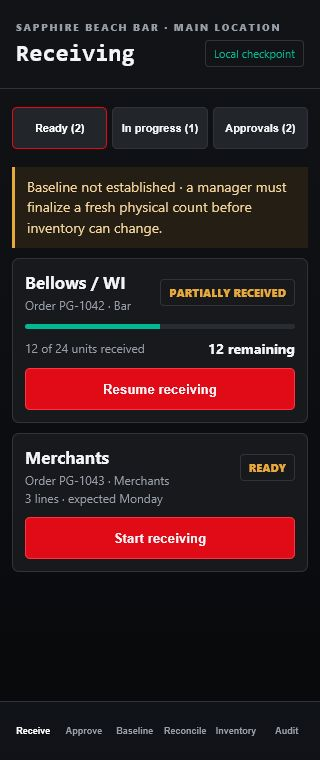
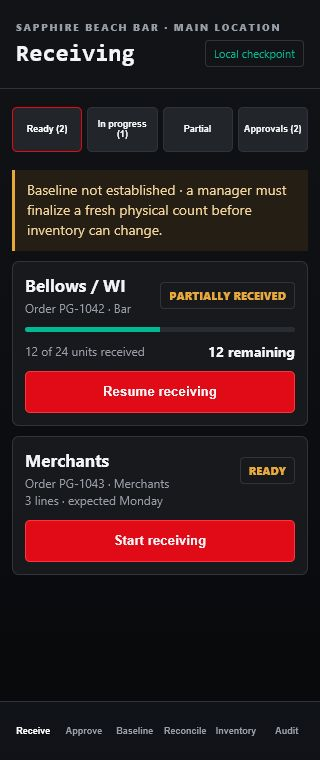
Complete Phase 3 integrity verification

diff --git a/phase3.html b/phase3.html
@@ -5,7 +5,8 @@
 <meta name="viewport" content="width=device-width,initial-scale=1,viewport-fit=cover">
 <title>PourGrid · Receiving</title>
 <style>
-:root{--bg:#08090b;--panel:#17191d;--line:#30343a;--text:#f3f4f6;--muted:#989ea7;--red:#e10a17;--green:#00b893;--amber:#e8a93c}*{box-sizing:border-box}html{background:var(--bg)}body{margin:0;background:var(--bg);color:var(--text);font:14px -apple-system,BlinkMacSystemFont,"Segoe UI",sans-serif}.app{max-width:430px;min-height:100vh;margin:auto;padding:0 16px 104px;background:linear-gradient(#111317,#08090b)}header{position:sticky;top:0;z-index:2;margin:0 -16px 18px;padding:calc(20px + env(safe-area-inset-top)) 16px 16px;background:#111317f2;border-bottom:1px solid var(--line);backdrop-filter:blur(12px)}.eyebrow{color:var(--muted);font-size:10px;font-weight:800;letter-spacing:1.8px;text-transform:uppercase}h1{font:800 24px ui-monospace,monospace;margin:5px 0}.pill,.badge{display:inline-block;padding:5px 8px;border:1px solid var(--line);border-radius:4px;color:var(--green);font-size:11px}.badge{color:var(--amber);font-weight:800;text-transform:uppercase}.tabs{display:flex;gap:5px;overflow:hidden;margin-bottom:16px;padding-bottom:2px}.tabs button{flex:1;min-width:0;white-space:nowrap;min-height:42px;padding-left:5px;padding-right:5px;font-size:11px}.card{background:var(--panel);border:1px solid var(--line);border-radius:7px;padding:14px;margin:10px 0;overflow:hidden}.row{display:flex;align-items:center;justify-content:space-between;gap:12px}.row>*{min-width:0}.muted{color:var(--muted);font-size:12px;line-height:1.45}.metric{font:800 20px ui-monospace,monospace;white-space:nowrap}.bar{height:5px;background:#292d32;margin:10px 0;border-radius:3px;overflow:hidden}.bar i{display:block;height:100%;background:var(--green);width:50%}button{border:1px solid var(--line);border-radius:5px;background:#22252a;color:var(--text);padding:11px 13px;font-weight:750;min-height:42px}button.primary{background:var(--red);border-color:#ff3440;width:100%;margin-top:10px}button.secondary{width:100%;margin-top:8px}button.active{border-color:var(--red);color:#fff}.line{padding:12px 0;border-top:1px solid var(--line)}input{width:72px;background:#0d0f12;border:1px solid var(--line);color:#fff;padding:10px;border-radius:4px;font-size:16px}.notice{border-left:3px solid var(--amber);padding:10px 12px;background:#241e14;color:#f3d49c;line-height:1.45}.success{border-left-color:var(--green);background:#10231e;color:#a9eadb}.nav{position:fixed;bottom:0;left:50%;transform:translateX(-50%);width:min(430px,100%);display:flex;background:#111317f2;border-top:1px solid var(--line);padding:8px 8px calc(8px + env(safe-area-inset-bottom));z-index:3}.nav button{flex:1;border:0;background:none;color:var(--muted);padding:7px 2px;font-size:10px;min-width:0}.nav button.active{color:#fff}h2{font-size:17px;margin:0 0 4px}.hidden{display:none}.audit{font:11px ui-monospace,monospace;color:#c4c9d0;overflow-wrap:anywhere}.choice{display:flex;gap:8px}.choice button{flex:1}.section-title{margin:4px 0 12px}.check{color:var(--green);font-weight:800}.danger{color:#ff8087}@media(max-width:340px){.app{padding-left:12px;padding-right:12px}header{margin-left:-12px;margin-right:-12px}.card{padding:12px}.nav button{font-size:9px}.row{gap:8px}}
+:root{--bg:#08090b;--panel:#17191d;--line:#30343a;--text:#f3f4f6;--muted:#989ea7;--red:#e10a17;--green:#00b893;--amber:#e8a93c}*{box-sizing:border-box}html{background:var(--bg)}body{margin:0;background:var(--bg);color:var(--text);font:14px -apple-system,BlinkMacSystemFont,"Segoe UI",sans-serif}.app{max-width:430px;min-height:100vh;margin:auto;padding:0 16px 104px;background:linear-gradient(#111317,#08090b)}header{position:sticky;top:0;z-index:2;margin:0 -16px 18px;padding:calc(20px + env(safe-area-inset-top)) 16px 16px;background:#111317f2;border-bottom:1px solid var(--line);backdrop-filter:blur(12px)}.eyebrow{color:var(--muted);font-size:10px;font-weight:800;letter-spacing:1.8px;text-transform:uppercase}h1{font:800 24px ui-monospace,monospace;margin:5px 0}.pill,.badge{display:inline-block;padding:5px 8px;border:1px solid var(--line);border-radius:4px;color:var(--green);font-size:11px}.badge{color:var(--amber);font-weight:800;text-transform:uppercase}.tabs{display:flex;gap:5px;overflow:hidden;margin-bottom:16px;padding-bottom:2px}.tabs button{flex:1;min-width:0;white-space:normal;line-height:1.15;min-height:42px;padding-left:4px;padding-right:4px;font-size:10px}.card{background:var(--panel);border:1px solid var(--line);border-radius:7px;padding:14px;margin:10px 0;overflow:hidden}.row{display:flex;align-items:center;justify-content:space-between;gap:12px}.row>*{min-width:0}.muted{color:var(--muted);font-size:12px;line-height:1.45}.metric{font:800 20px ui-monospace,monospace;white-space:nowrap}.bar{height:5px;background:#292d32;margin:10px 0;border-radius:3px;overflow:hidden}.bar i{display:block;height:100%;background:var(--green);width:50%}button{border:1px solid var(--line);border-radius:5px;background:#22252a;color:var(--text);padding:11px 13px;font-weight:750;min-height:42px}button.primary{background:var(--red);border-color:#ff3440;width:100%;margin-top:10px}button.secondary{width:100%;margin-top:8px}button.active{border-color:var(--red);color:#fff}.line{padding:12px 0;border-top:1px solid var(--line)}input{width:72px;background:#0d0f12;border:1px solid var(--line);color:#fff;padding:10px;border-radius:4px;font-size:16px}.notice{border-left:3px solid var(--amber);padding:10px 12px;background:#241e14;color:#f3d49c;line-height:1.45}.success{border-left-color:var(--green);background:#10231e;color:#a9eadb}.nav{position:fixed;bottom:0;left:50%;transform:translateX(-50%);width:min(430px,100%);display:flex;background:#111317f2;border-top:1px solid var(--line);padding:8px 8px calc(8px + env(safe-area-inset-bottom));z-index:3}.nav button{flex:1;border:0;background:none;color:var(--muted);padding:7px 2px;font-size:10px;min-width:0}.nav button.active{color:#fff}h2{font-size:17px;margin:0 0 4px}.hidden{display:none}.audit{font:11px ui-monospace,monospace;color:#c4c9d0;overflow-wrap:anywhere}.choice{display:flex;gap:8px}.choice button{flex:1}.section-title{margin:4px 0 12px}.check{color:var(--green);font-weight:800}.danger{color:#ff8087}@media(max-width:340px){.app{padding-left:12px;padding-right:12px}header{margin-left:-12px;margin-right:-12px}.card{padding:12px}.nav button{font-size:9px}.row{gap:8px}}
+@media(max-width:340px){.tabs button{font-size:9px}}
 </style>
 </head>
 <body>
@@ -13,10 +14,20 @@
   <header><div class="eyebrow">Sapphire Beach Bar · Main location</div><div class="row"><h1 id="page-title">Receiving</h1><span class="pill">Local checkpoint</span></div></header>
 
   <section id="orders" data-title="Receiving">
-    <div class="tabs"><button class="active" onclick="openView('orders')">Ready (2)</button><button onclick="openView('receive')">In progress (1)</button><button onclick="openView('approvals')">Approvals (2)</button></div>
+    <div class="tabs"><button class="active" onclick="openView('orders')">Ready (2)</button><button onclick="openView('receive')">In progress (1)</button><button onclick="openView('partial')">Partial</button><button onclick="openView('approvals')">Approvals (2)</button></div>
     <div class="notice">Baseline not established · a manager must finalize a fresh physical count before inventory can change.</div>
     <article class="card"><div class="row"><div><h2>Bellows / WI</h2><div class="muted">Order PG-1042 · Bar</div></div><span class="badge">Partially received</span></div><div class="bar"><i></i></div><div class="row"><span class="muted">12 of 24 units received</span><strong>12 remaining</strong></div><button class="primary" onclick="openView('receive')">Resume receiving</button></article>
     <article class="card"><div class="row"><div><h2>Merchants</h2><div class="muted">Order PG-1043 · Merchants</div></div><span class="badge">Ready</span></div><div class="muted">3 lines · expected Monday</div><button class="primary" onclick="openView('receive')">Start receiving</button></article>
+  </section>
+
+  <section id="partial" data-title="Partial receipt" class="hidden">
+    <button onclick="openView('orders')">← Ready orders</button>
+    <article class="card"><div class="row"><div><h2>Bellows / WI · PG-1042</h2><div class="muted">First receipt finalized safely</div></div><span class="badge">Partial</span></div><div class="bar"><i></i></div><div class="line row"><span>Expected</span><strong>24 units</strong></div><div class="line row"><span>Received</span><strong>12 units</strong></div><div class="line row"><span>Remaining</span><strong>12 units</strong></div><div class="notice success">Inventory increased by exactly 12 units. Resume receiving for the remaining quantity.</div><button class="primary" onclick="openView('receive')">Resume receiving</button></article>
+  </section>
+
+  <section id="impact" data-title="Inventory impact" class="hidden">
+    <button onclick="openView('receive')">← Active receipt</button>
+    <article class="card"><div class="eyebrow">Finalization preview</div><h2>Inventory impact</h2><div class="line row"><div><strong>Stoli Vodka</strong><div class="muted">Receipt PG-1042 · Bar</div></div><span class="metric">+12</span></div><div class="line row"><div><strong>Tito’s Handmade Vodka</strong><div class="muted">No units entered</div></div><span class="metric muted">0</span></div><div class="notice">No durable inventory changes occur until finalization. Repeating finalization cannot create another movement.</div><button class="primary" onclick="showCheckpoint(this)">Finalize once</button></article>
   </section>
 
   <section id="receive" data-title="Receive order" class="hidden">
@@ -57,8 +68,8 @@
 <nav class="nav"><button data-view="orders" onclick="openView('orders')">Receive</button><button data-view="approvals" onclick="openView('approvals')">Approve</button><button data-view="baseline" onclick="openView('baseline')">Baseline</button><button data-view="reconcile" onclick="openView('reconcile')">Reconcile</button><button data-view="inventory" onclick="openView('inventory')">Inventory</button><button data-view="audit" onclick="openView('audit')">Audit</button></nav>
 <script src="phase3-domain.js"></script>
 <script>
-var VIEWS=['orders','receive','approvals','baseline','reconcile','inventory','audit'];
-function openView(id){if(VIEWS.indexOf(id)<0)id='orders';VIEWS.forEach(function(view){document.getElementById(view).classList.toggle('hidden',view!==id)});document.getElementById('page-title').textContent=document.getElementById(id).getAttribute('data-title');document.querySelectorAll('.nav button').forEach(function(button){button.classList.toggle('active',button.getAttribute('data-view')===id||(id==='receive'&&button.getAttribute('data-view')==='orders'))});if(location.hash!=='#'+id)history.replaceState(null,'','#'+id);window.scrollTo(0,0)}
+var VIEWS=['orders','receive','partial','approvals','impact','baseline','reconcile','inventory','audit'];
+function openView(id){if(VIEWS.indexOf(id)<0)id='orders';VIEWS.forEach(function(view){document.getElementById(view).classList.toggle('hidden',view!==id)});document.getElementById('page-title').textContent=document.getElementById(id).getAttribute('data-title');document.querySelectorAll('.nav button').forEach(function(button){button.classList.toggle('active',button.getAttribute('data-view')===id||(['receive','partial','impact'].indexOf(id)>=0&&button.getAttribute('data-view')==='orders'))});if(location.hash!=='#'+id)history.replaceState(null,'','#'+id);window.scrollTo(0,0)}
 function showCheckpoint(button){button.textContent='Checkpoint only · database connection pending';button.disabled=true}
 window.addEventListener('hashchange',function(){openView(location.hash.slice(1))});openView(location.hash.slice(1)||'orders');
 </script>

diff --git a/index.html b/index.html
@@ -450,7 +450,7 @@ textarea,input[type=text],input[type=email],input[type=number]{font-size:16px!im
 
 /* Sapphire 4 — Apple-like interaction polish */
 :root{--spring:cubic-bezier(.2,.8,.2,1)}html{scroll-behavior:smooth}body{overscroll-behavior-y:none}button,input,textarea{font-family:inherit}button{touch-action:manipulation}.screen{animation:s4enter .28s var(--spring)}@keyframes s4enter{from{opacity:.01;transform:translateY(8px) scale(.995)}to{opacity:1;transform:none}}
-.s4-search{position:sticky;top:105px;z-index:8;margin:8px 15px 10px;display:flex;align-items:center;gap:9px;padding:11px 13px;border-radius:14px;background:rgba(6,25,39,.88);border:1px solid rgba(133,195,218,.13);backdrop-filter:blur(20px);box-shadow:0 7px 22px rgba(0,0,0,.16)}.s4-search input{width:100%;border:0!important;background:transparent!important;padding:0!important;font-size:16px!important;box-shadow:none!important;text-align:left!important}.s4-search .mag{color:#79BDD5;font-size:16px}.s4-search .x{border:0;background:rgba(255,255,255,.07);color:#A9BCC7;width:24px;height:24px;border-radius:50%;display:none}
+.s4-search{position:sticky;top:105px;z-index:8;margin:8px 15px 10px;display:grid;grid-template-columns:auto minmax(0,1fr) auto auto;align-items:center;gap:7px;padding:9px 10px;border-radius:14px;background:rgba(6,25,39,.88);border:1px solid rgba(133,195,218,.13);backdrop-filter:blur(20px);box-shadow:0 7px 22px rgba(0,0,0,.16)}.s4-search input{width:100%;min-width:0;border:0!important;background:transparent!important;padding:0!important;font-size:16px!important;box-shadow:none!important;text-align:left!important}.s4-search .mag{color:#79BDD5;font-size:16px}.s4-search .search-go,.s4-search .search-reset{min-height:34px;border:0;border-radius:9px;padding:6px 8px;font-size:10px;font-weight:800}.s4-search .search-go{background:rgba(89,199,234,.14);color:#8DDBF0}.s4-search .search-reset{background:rgba(255,255,255,.07);color:#A9BCC7}
 .s4-sheet-backdrop{position:fixed;inset:0;background:rgba(0,8,14,.54);backdrop-filter:blur(8px);z-index:90;opacity:0;pointer-events:none;transition:opacity .24s ease}.s4-sheet-backdrop.open{opacity:1;pointer-events:auto}.s4-sheet{position:absolute;left:50%;bottom:0;transform:translate(-50%,105%);width:min(430px,100%);max-height:min(88dvh,760px);overflow-y:auto;padding:9px 16px calc(18px + env(safe-area-inset-bottom));border-radius:25px 25px 0 0;background:linear-gradient(165deg,#0C2C42,#061A2A);border:1px solid rgba(145,207,229,.16);box-shadow:0 -24px 70px rgba(0,0,0,.5);transition:transform .34s var(--spring)}.s4-sheet-backdrop.open .s4-sheet{transform:translate(-50%,0)}.s4-grabber{width:38px;height:5px;border-radius:9px;background:rgba(255,255,255,.2);margin:0 auto 15px}.s4-sheet h3{font-size:20px;margin-bottom:5px}.s4-sheet p{font-size:13px;color:#8FA8B6;line-height:1.45;margin-bottom:14px}
 .s4-undo{position:fixed;left:50%;bottom:101px;transform:translate(-50%,20px);z-index:110;width:min(390px,calc(100% - 28px));display:flex;align-items:center;justify-content:space-between;gap:12px;padding:12px 13px 12px 16px;border-radius:15px;background:rgba(8,30,45,.97);border:1px solid rgba(141,202,223,.18);box-shadow:0 18px 45px rgba(0,0,0,.42);opacity:0;pointer-events:none;transition:.22s var(--spring);font-size:13px}.s4-undo.show{opacity:1;transform:translate(-50%,0);pointer-events:auto}.s4-undo button{border:0;background:rgba(226,173,74,.13);color:#F0C979;border-radius:10px;padding:8px 12px;font-weight:800}
 .crow,.orow,.ctile,.gauge,.hcard{transition:transform .18s var(--spring),border-color .18s,background .18s}.crow:active,.orow:active,.ctile:active,.gauge:active,.hcard:active{transform:scale(.985)}@media(prefers-reduced-motion:reduce){.screen,.s4-sheet,.s4-sheet-backdrop,.s4-undo,*{animation-duration:.01ms!important;transition-duration:.01ms!important;scroll-behavior:auto!important}}
@@ -4187,7 +4187,7 @@ setInterval(function(){
 
 </script>
 <!-- Sapphire 2.0 visual redesign · business logic preserved -->
-<div id="s4SheetWrap" class="s4-sheet-backdrop" onclick="if(event.target===this)s4CloseSheet()"><div class="s4-sheet"><div class="s4-grabber"></div><div id="s4SheetBody"></div></div></div><div id="s4Undo" class="s4-undo"><span id="s4UndoText">Updated</span><button onclick="s4RunUndo()">Undo</button></div><script>let s4UndoFn=null,s4UndoTimer=null;function s4CloseSheet(){const w=document.getElementById('s4SheetWrap');if(w)w.classList.remove('open');document.body.style.overflow=''}function s4Undo(message,fn){s4UndoFn=fn;const el=document.getElementById('s4Undo');document.getElementById('s4UndoText').textContent=message;el.classList.add('show');clearTimeout(s4UndoTimer);s4UndoTimer=setTimeout(()=>el.classList.remove('show'),5000)}function s4RunUndo(){if(s4UndoFn)try{s4UndoFn()}catch(e){};document.getElementById('s4Undo').classList.remove('show');s4UndoFn=null}function s4Haptic(){if(navigator.vibrate)navigator.vibrate(8)}document.addEventListener('click',e=>{if(e.target.closest('button,.ctile,.crow,.orow'))s4Haptic()},{passive:true});function s4AttachSearch(){document.querySelectorAll('.screen').forEach(screen=>{if(screen.dataset.s4search)return;const rows=screen.querySelectorAll('.crow,.orow,.photo-item-row');if(rows.length<8)return;screen.dataset.s4search='1';const anchor=screen.querySelector('.stabs')||screen.querySelector('.hdr');if(!anchor)return;const box=document.createElement('div');box.className='s4-search';box.innerHTML='<span class="mag">⌕</span><input aria-label="Search items" placeholder="Search items"><button class="x" aria-label="Clear search">×</button>';anchor.insertAdjacentElement('afterend',box);const input=box.querySelector('input'),x=box.querySelector('.x');input.addEventListener('input',()=>{const q=input.value.trim().toLowerCase();x.style.display=q?'block':'none';screen.querySelectorAll('.crow,.orow,.photo-item-row').forEach(r=>r.style.display=!q||r.textContent.toLowerCase().includes(q)?'':'none')});x.onclick=()=>{input.value='';input.dispatchEvent(new Event('input'));input.focus()}})}const s4Obs=new MutationObserver(()=>requestAnimationFrame(s4AttachSearch));s4Obs.observe(document.body,{subtree:true,childList:true});window.addEventListener('load',()=>setTimeout(s4AttachSearch,700));</script><div id="s5Offline" class="s5-offline">Offline · changes stay on this device</div><div id="s5Success" class="s5-success" onclick="if(event.target===this)s5HideSuccess()"><div class="s5-success-card"><div class="s5-check">✓</div><h3 id="s5SuccessTitle">Saved</h3><p id="s5SuccessText">Your changes are saved.</p><div class="s6-success-note">Sapphire keeps the team state in sync automatically.</div><button onclick="s5HideSuccess()">Done</button></div></div><script>
+<div id="s4SheetWrap" class="s4-sheet-backdrop" onclick="if(event.target===this)s4CloseSheet()"><div class="s4-sheet"><div class="s4-grabber"></div><div id="s4SheetBody"></div></div></div><div id="s4Undo" class="s4-undo"><span id="s4UndoText">Updated</span><button onclick="s4RunUndo()">Undo</button></div><script>let s4UndoFn=null,s4UndoTimer=null;function s4CloseSheet(){const w=document.getElementById('s4SheetWrap');if(w)w.classList.remove('open');document.body.style.overflow=''}function s4Undo(message,fn){s4UndoFn=fn;const el=document.getElementById('s4Undo');document.getElementById('s4UndoText').textContent=message;el.classList.add('show');clearTimeout(s4UndoTimer);s4UndoTimer=setTimeout(()=>el.classList.remove('show'),5000)}function s4RunUndo(){if(s4UndoFn)try{s4UndoFn()}catch(e){};document.getElementById('s4Undo').classList.remove('show');s4UndoFn=null}function s4Haptic(){if(navigator.vibrate)navigator.vibrate(8)}document.addEventListener('click',e=>{if(e.target.closest('button,.ctile,.crow,.orow'))s4Haptic()},{passive:true});function s4AttachSearch(){document.querySelectorAll('.screen').forEach(screen=>{if(screen.dataset.s4search)return;const rows=screen.querySelectorAll('.crow,.orow,.photo-item-row');if(rows.length<8)return;screen.dataset.s4search='1';const anchor=screen.querySelector('.stabs')||screen.querySelector('.hdr');if(!anchor)return;const box=document.createElement('form');box.className='s4-search';box.setAttribute('role','search');box.innerHTML='<span class="mag">⌕</span><input aria-label="Search items" placeholder="Search items"><button class="search-go" type="submit">Search</button><button class="search-reset" type="reset">Reset</button>';anchor.insertAdjacentElement('afterend',box);const input=box.querySelector('input');function apply(){const q=input.value.trim().toLowerCase();screen.querySelectorAll('.crow,.orow,.photo-item-row').forEach(r=>r.style.display=!q||r.textContent.toLowerCase().includes(q)?'':'none')}box.addEventListener('submit',e=>{e.preventDefault();apply()});box.addEventListener('reset',()=>{setTimeout(()=>{apply();input.focus()},0)});input.addEventListener('input',apply)})}const s4Obs=new MutationObserver(()=>requestAnimationFrame(s4AttachSearch));s4Obs.observe(document.body,{subtree:true,childList:true});window.addEventListener('load',()=>setTimeout(s4AttachSearch,700));</script><div id="s5Offline" class="s5-offline">Offline · changes stay on this device</div><div id="s5Success" class="s5-success" onclick="if(event.target===this)s5HideSuccess()"><div class="s5-success-card"><div class="s5-check">✓</div><h3 id="s5SuccessTitle">Saved</h3><p id="s5SuccessText">Your changes are saved.</p><div class="s6-success-note">Sapphire keeps the team state in sync automatically.</div><button onclick="s5HideSuccess()">Done</button></div></div><script>
 // Sapphire 5 native-app shell
 if('serviceWorker' in navigator){window.addEventListener('load',function(){navigator.serviceWorker.register('./sw.js').catch(function(){})});}
 function s5SetOffline(){var e=document.getElementById('s5Offline');if(e)e.classList.toggle('show',!navigator.onLine)}

diff --git a/test/phase3-migration.test.js b/test/phase3-migration.test.js
@@ -10,4 +10,5 @@ test('submitted orders alone cannot create inventory movement',()=>{assert.doesN
 test('mobile checkpoint exposes required receiving states and inventory preview',()=>{['Ready (2)','In progress (1)','Approvals (2)','Partially received','remaining','Inventory impact preview','finalize once','Immutable audit history','Baseline not established'].forEach(x=>assert.ok(ui.toLowerCase().includes(x.toLowerCase()),x));assert.match(ui,/@media\(max-width:340px\)/)});
 test('tenant relationships use composite foreign keys',()=>{['order_location_org_fk','order_vendor_org_fk','receiving_line_session_scope_fk','receiving_line_order_scope_fk','movement_item_org_fk'].forEach(x=>assert.ok(security.includes(x),x))});
 test('write RLS includes USING and WITH CHECK boundaries',()=>{assert.match(security,/create policy order_update[\s\S]*using\([\s\S]*with check\(/);assert.match(security,/create policy session_insert[\s\S]*with check\(/);assert.match(security,/create policy reconciliation_request[\s\S]*with check\(/)});
+test('workflow identity and missing replacement balances are guarded',()=>{assert.match(security,/create function public\.enforce_phase3_workflow/);assert.match(security,/create trigger inventory_movement_workflow/);assert.match(security,/select coalesce\(\(select quantity_units[\s\S]*\),0\) into current_units/)});
 test('executable PostgreSQL suite covers concurrency, RLS, legacy and accounting',()=>{['legacy rows and JSON preserved','cross tenant insert','viewer insert','package conversion','duplicate finalization','balances reconstruct','movement update','audit delete'].forEach(x=>assert.ok(executable.includes(x),x));assert.match(workflow,/Verify concurrent finalization is exactly once/)});

diff --git a/test/smart-count-launcher.test.js b/test/smart-count-launcher.test.js
@@ -277,6 +277,11 @@ test('manual adjustment parser supports cases, bottles, conversion, direction, a
   const zero=context.adjust({dist:'Merchants',unit:'Bottle',pack:12},'0','0','add');assert.equal(zero.valid,true);assert.equal(zero.zero,true);assert.equal(zero.orderUnits,0);
 });
 
+test('every injected search has explicit execute and reset controls',()=>{
+  const html=fs.readFileSync(path.join(__dirname,'..','index.html'),'utf8'),search=html.slice(html.indexOf('function s4AttachSearch'),html.indexOf('</script><div id="s5Offline"'));
+  assert.match(search,/role','search/);assert.match(search,/type="submit">Search/);assert.match(search,/type="reset">Reset/);assert.match(search,/addEventListener\('submit'/);assert.match(search,/addEventListener\('reset'/);
+});
+
 test('cycle labels use the device calendar day while urgency uses remaining time',()=>{
   const state=cycleStateHarness(),bellows=localDate(2026,8,8,15);
   assert.deepEqual({...state(deadline(bellows),localDate(2026,8,7,14))},{key:'watch',label:'Due tomorrow',tone:'watch'});

diff --git a/screenshots/README.md b/screenshots/README.md
@@ -4,7 +4,9 @@ These viewport captures cover every major Phase 3 workflow at the approved mobil
 
 - Orders
 - Receive
+- Partial receipt and remaining quantities
 - Approvals
+- Inventory-impact preview
 - Baseline
 - Reconcile
 - Inventory
